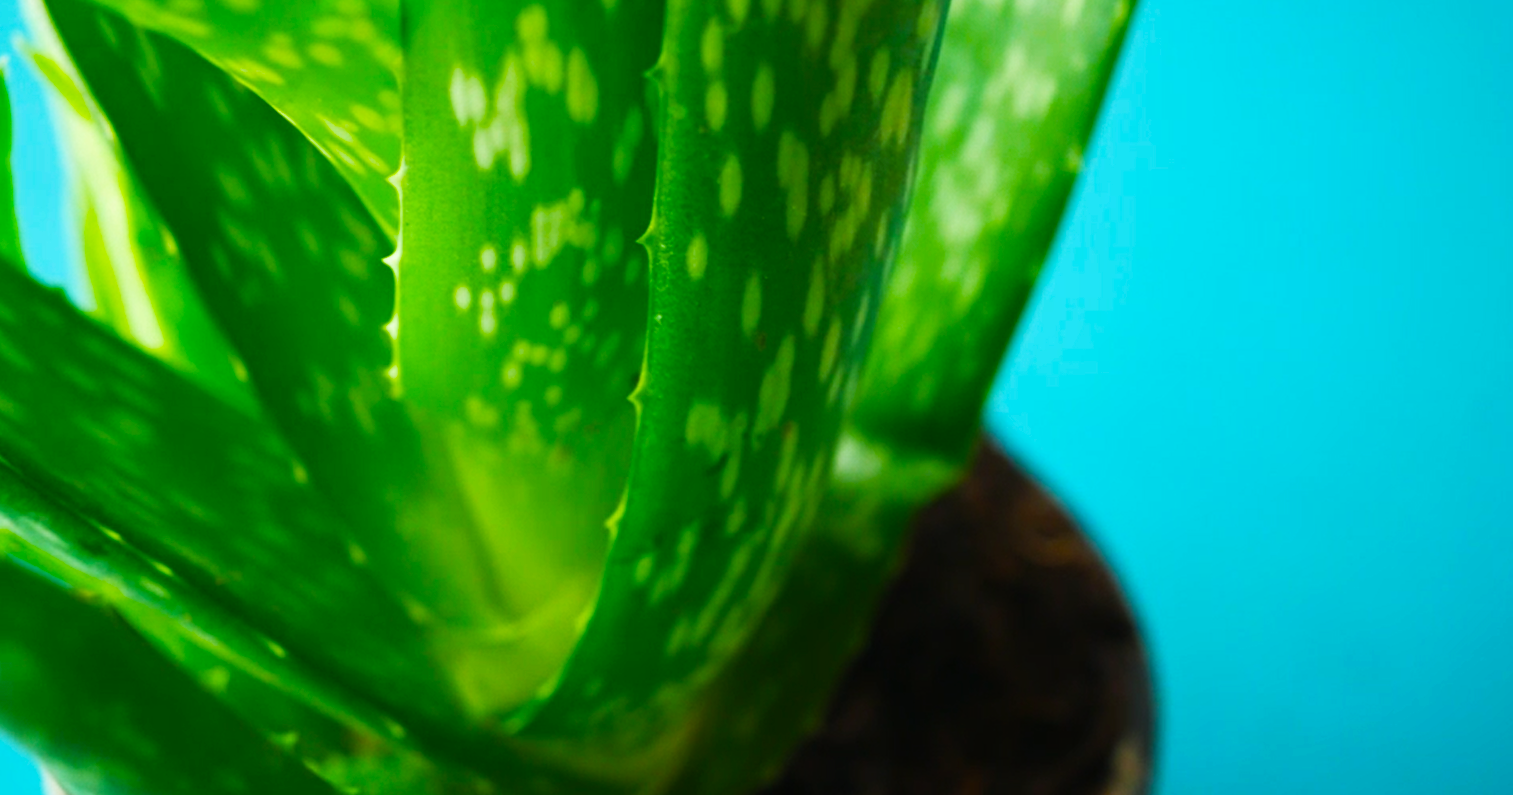
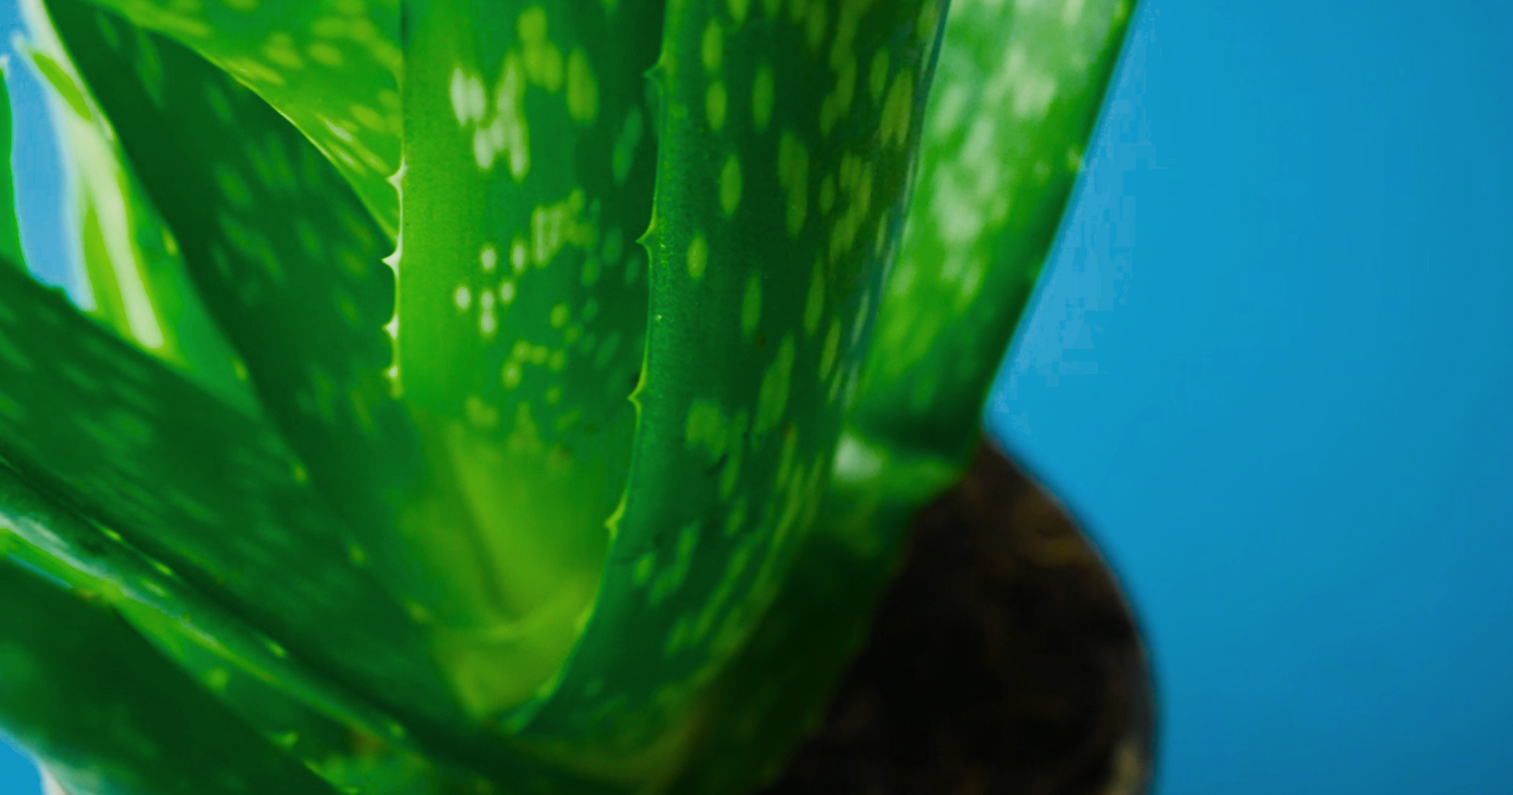
Update ALOE_2.png color shade and darken cn-sub text in Leiter version

diff --git a/index_Leiter.html b/index_Leiter.html
@@ -180,7 +180,7 @@ body{font-family:'Lato',sans-serif;background:var(--fog);color:var(--text);overf
 .cn-deco-line{width:2px;background:linear-gradient(to bottom,transparent,rgba(74,106,138,.4),rgba(154,100,114,.3),transparent);position:absolute;opacity:0;animation:fadeIn .8s ease forwards 1.8s}
 .cn-deco-line.top{height:80px;top:-90px}
 .cn-deco-line.bot{height:170px;bottom:-70px}
-.cn-sub{margin-top:20px;text-align:center;font-family:'Noto Serif SC',serif;font-size:12px;color:var(--text2);letter-spacing:.15em;opacity:0;animation:fadeIn .8s ease forwards 1.6s}
+.cn-sub{margin-top:20px;text-align:center;font-family:'Noto Serif SC',serif;font-size:12px;color:var(--slate);letter-spacing:.15em;opacity:0;animation:fadeIn .8s ease forwards 1.6s}
 .cn-seal{
   margin-top:28px;width:56px;height:56px;border:2.5px solid var(--brick);border-radius:4px;
   display:flex;flex-direction:column;align-items:center;justify-content:center;
